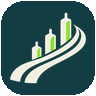
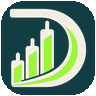
Refresh brand mark and show full batch news

diff --git a/app/components/trader.tsx b/app/components/trader.tsx
@@ -158,13 +158,11 @@ export function Trader({ mode = "live", audienceOnly = false, terminal, uiVarian
   const [query, setQuery] = useState("");
   const [toast, setToast] = useState("");
   const [busy, setBusy] = useState(false);
-  const [breaking, setBreaking] = useState(false);
   const [theme, setTheme] = useState<"light" | "dark">("light");
   const [themeReady, setThemeReady] = useState(false);
   const [clockNow, setClockNow] = useState(Date.now);
   const [menu, setMenu] = useState(false);
   const [drawer, setDrawer] = useState(false);
-  const lastNews = useRef<string | null>(null);
   const inFlight = useRef(false);
   const submitting = useRef(false);
   const readController = useRef<AbortController | null>(null);
@@ -179,7 +177,6 @@ export function Trader({ mode = "live", audienceOnly = false, terminal, uiVarian
   worldRef.current = world;
   const chartSymbol = useRef<string | null>(null);
   const chartLastTime = useRef(0);
-  const newsTimeout = useRef<number | null>(null);
 
   useEffect(() => { if (!audienceOnly) setSessionId(initialSession(mode, terminal, preview)); }, [audienceOnly, mode, preview, terminal]);
   useEffect(() => {
@@ -216,11 +213,6 @@ export function Trader({ mode = "live", audienceOnly = false, terminal, uiVarian
       }
       worldRef.current = nextWorld;
       setWorld(nextWorld);
-      const headline = data.latestNewsId;
-      if (headline && headline !== lastNews.current) {
-        lastNews.current = headline;
-        if (!audienceOnly) { setBreaking(true); if (newsTimeout.current) window.clearTimeout(newsTimeout.current); newsTimeout.current = window.setTimeout(() => setBreaking(false), 30_000); }
-      }
     } catch (err) { if (!controller.signal.aborted) { failures.current += 1; nextSyncAt.current = Date.now() + Math.min(15000, 1000 * 2 ** failures.current); if (failures.current === 1) setToast(err instanceof Error ? err.message : "Reconnecting to the market…"); } }
     finally { clearTimeout(timeout); if (readController.current === controller) { inFlight.current = false; readController.current = null; } }
   }, [sessionId, mode, audienceOnly, terminal, uiVariant, preview]);
@@ -249,7 +241,6 @@ export function Trader({ mode = "live", audienceOnly = false, terminal, uiVarian
   const blocked = busy || !player || player.ended || !world || world.status !== "live" || world.controls.paused || (world.mode === "live" && (player.paused || !player.included));
 
   useEffect(() => { if (toast) { const t = window.setTimeout(() => setToast(""), 3600); return () => clearTimeout(t); } }, [toast]);
-  useEffect(() => () => { if (newsTimeout.current) window.clearTimeout(newsTimeout.current); }, []);
   useEffect(() => {
     document.documentElement.dataset.theme = theme;
     if (themeReady) window.localStorage.setItem("ds-theme", theme);
@@ -293,7 +284,7 @@ export function Trader({ mode = "live", audienceOnly = false, terminal, uiVarian
   if (audienceOnly) return <Audience world={world} uiVariant={uiVariant} preview={preview} theme={theme} onTheme={() => setTheme(current => current === "light" ? "dark" : "light")} />;
   const report = world && player ? performance(world as never, player) : null;
   const isTest = mode === "test";
-  const activeNews = world?.headlines.find(n => n.id === world.latestNewsId);
+  const marketNews = [...(world?.headlines ?? [])].sort((a, b) => a.createdAt - b.createdAt);
   const previewOption = uiVariant ? UI_OPTIONS.find(option => option.slug === uiVariant) : null;
   const orderTicket = stock && <div className="order-card"><div className="order-title"><div><span className="eyebrow">ORDER TICKET · {stock.symbol}</span><h2>Place a trade</h2></div><span className="order-live"><i/> LIVE PRICE</span></div>
     <div className="side-switch">{(["Buy", "Sell", "Short"] as const).map(t => <button key={t} onClick={() => setSide(t)} className={`${side === t ? `active ${t.toLowerCase()}` : ""}`} disabled={t === "Sell" && !ownedQty}>{t}</button>)}</div>
@@ -317,7 +308,10 @@ export function Trader({ mode = "live", audienceOnly = false, terminal, uiVarian
       {isTest && <div className="autonomous-band"><span className="live-dot"/> TEST MARKET · ISOLATED PRACTICE <span>Six minute rounds use the same rules as a live session.</span></div>}
       {world && world.status !== "live" && view === "markets" && <div className="market-state-banner"><span className="state-orb"/>{world.status === "countdown" ? `The market opens in ${Math.max(0, Math.ceil((world.startedAt - clockNow) / 1000))} seconds` : world.status === "closed" ? isTest ? "Practice round complete" : "The batch has ended" : isTest ? "Practice round ready" : "The market is ready"}<span>{world.status === "countdown" ? "The market is starting on every device." : world.status === "closed" ? isTest ? "Start another isolated practice round when you’re ready." : "Review your report to return to the ready state." : isTest ? "Your isolated practice market is ready." : "The host will start the shared batch shortly."}</span>{isTest && (world.status === "closed" || world.status === "ready") && <button type="button" className="outline-button" disabled={busy} onClick={() => void send("sandbox-start")}>Start practice round</button>}</div>}
       {view === "markets" && stock && <>
-        {breaking && activeNews && <div className="breaking-alert" role="status"><div className="breaking-mark">!</div><div><small>{activeNews.type.toUpperCase()} NEWS · {newsScope(activeNews)} · JUST NOW</small><strong>{activeNews.headline}</strong></div><button onClick={() => setBreaking(false)} aria-label="Minimize headline">×</button><span className="breaking-progress"/></div>}
+        <section className="market-news-feed" aria-label="News published this batch">
+          <header><span className="eyebrow">BATCH NEWS</span><span>{marketNews.length} {marketNews.length === 1 ? "headline" : "headlines"}</span></header>
+          <div className="market-news-list">{marketNews.length ? marketNews.map((item, index) => <article key={item.id}><b className="market-news-number">News {index + 1}</b><span className={`news-tag ${item.type}`}>{item.type}</span><span className="market-news-scope">{newsScope(item)}</span><strong>{item.headline}</strong></article>) : <p>No news published in this batch yet.</p>}</div>
+        </section>
         <div className="trading-grid">
           <section className="watch-area">
             <div className="watch-controls"><div className="sector-scroll">{sectors.map(s => <button key={s} className={`filter-chip ${sector === s ? "active" : ""}`} onClick={() => setSector(s)}>{s}</button>)}</div><label className="search-field"><span>⌕</span><input value={query} onChange={e => setQuery(e.target.value)} placeholder="Search companies" aria-label="Search stocks"/><kbd>⌘ K</kbd></label></div>
@@ -334,7 +328,6 @@ export function Trader({ mode = "live", audienceOnly = false, terminal, uiVarian
                 </button>;
             })}</div>
             {!shownStocks.length && <div className="empty-state">No companies match that search.</div>}
-            {activeNews && <div className="latest-brief"><span className="brief-icon">◉</span><span><small>LATEST BULLETIN · {newsScope(activeNews)}</small><b>{activeNews.headline}</b></span><button onClick={() => setView("news")}>News desk →</button></div>}
           </section>
 
           <aside className="trade-column">
@@ -363,7 +356,7 @@ export function Trader({ mode = "live", audienceOnly = false, terminal, uiVarian
         <div className="page-tabs"><button className={menu ? "" : "active"} onClick={() => setMenu(false)}>Holdings <span>{invested.length + shorts.length}</span></button><button className={menu ? "active" : ""} onClick={() => setMenu(true)}>History <span>{player?.history.length ?? 0}</span></button></div>
         {!menu ? <div className="table-card">{invested.length + shorts.length === 0 ? <div className="empty-state roomy"><span>▧</span><b>No holdings yet</b><p>Choose a company from Markets to place your first order.</p><button className="outline-button" onClick={() => setView("markets")}>Browse markets</button></div> : <table><thead><tr><th>COMPANY</th><th>POSITION</th><th>AVG. PRICE</th><th>LAST PRICE</th><th>MARKET VALUE</th><th>UNREALISED P&amp;L</th><th>ACTION</th></tr></thead><tbody>{[...invested.map(([symbol, p]) => ({ symbol, ...p, short: false })), ...shorts.map(([symbol, p]) => ({ symbol, ...p, short: true }))].map(p => {const s = world?.stocks.find(x => x.symbol === p.symbol); const mark = s?.price ?? 0; const pl = (p.short ? p.avg - mark : mark - p.avg) * p.qty;return <tr key={p.symbol} onClick={() => {setSelected(p.symbol);setView("markets");}}><td><span className="table-company"><Logo stock={s!} compact/><span><b>{s?.name}</b><small>{p.symbol} · {s?.sector}</small></span></span></td><td><span className={`position-pill ${p.short ? "short" : "long"}`}>{p.short ? "Short" : "Long"} · {p.qty}</span></td><td>{money(p.avg)}</td><td>{money(mark)}</td><td>{money(mark * p.qty, 0)}</td><td className={pl >= 0 ? "positive" : "negative"}>{pl >= 0 ? "+" : ""}{money(pl, 0)}</td><td><button className={`position-close ${p.short ? "cover" : "sell"}`} disabled={blocked} onClick={e => { e.stopPropagation(); void send("trade", { side: p.short ? "Buy" : "Sell", symbol: p.symbol, quantity: p.qty }); }}>{busy ? "Submitting…" : p.short ? "Cover short" : "Sell holding"}</button></td></tr>;})}</tbody></table>}</div> : <div className="table-card">{!player?.history.length ? <div className="empty-state roomy"><span>↻</span><b>No trades yet</b><p>Every order and short-cover is recorded here.</p></div> : <table><thead><tr><th>TIME</th><th>COMPANY</th><th>ORDER</th><th>QUANTITY</th><th>EXECUTION</th><th>REALIZED P&amp;L</th></tr></thead><tbody>{player.history.map(t => {const s = world?.stocks.find(x => x.symbol === t.symbol); const closing = t.side === "Sell" || t.side === "Auto-sell" || t.side === "Auto-cover" || (t.side === "Buy" && (t.coveredQty ?? (t.note?.startsWith("Covered") ? 1 : 0)) > 0);return <tr key={t.id}><td>{new Date(t.time).toLocaleTimeString("en-IN", { hour: "2-digit", minute: "2-digit", second: "2-digit" })}</td><td><span className="table-company"><Logo stock={s!} compact/><span><b>{s?.name ?? t.symbol}</b><small>{t.symbol}</small></span></span></td><td><span className={`position-pill ${t.side === "Short" ? "short" : closing ? "sell" : "long"}`}>{t.side === "Auto-sell" ? "Auto-sell · automatic close" : t.side === "Auto-cover" ? "Auto-cover · automatic close" : t.side === "Buy" && (t.coveredQty ?? 0) ? t.coveredQty === t.qty ? "Cover" : "Cover + Buy" : t.side}</span></td><td>{t.qty}</td><td>{money(t.price)}</td><td className={t.realized >= 0 ? "positive" : "negative"}>{closing ? `${t.realized > 0 ? "+" : ""}${money(t.realized, 0)}` : "—"}</td></tr>;})}</tbody></table>}</div>}</section>}
 
-      {view === "news" && <section className="wide-page"><div className="section-heading"><div><div className="eyebrow">DALAA<span>L</span> STREET / NEWS</div><h1>Market news<span className="heading-period">.</span></h1><p>Company and sector bulletins shape the fictional market through the same price model as trading.</p></div></div><div className="news-list">{world?.headlines.map((n, i) => <article className={`news-item ${i === 0 ? "newest" : ""}`} key={n.id}><div className="news-meta"><span className={`news-tag ${n.type}`}>{n.type}</span><span>{newsScope(n)}</span><time>{new Date(n.createdAt).toLocaleTimeString("en-IN", { hour: "2-digit", minute: "2-digit" })}</time></div><h2>{n.headline}</h2></article>) ?? null}{!world?.headlines.length && <div className="empty-state">No bulletins yet. Headlines triggered during this batch will appear here.</div>}</div></section>}
+      {view === "news" && <section className="wide-page"><div className="section-heading"><div><div className="eyebrow">DALAA<span>L</span> STREET / NEWS</div><h1>Market news<span className="heading-period">.</span></h1><p>Company and sector bulletins shape the fictional market through the same price model as trading.</p></div></div><div className="news-list">{marketNews.map((n, i) => <article className={`news-item ${i === 0 ? "newest" : ""}`} key={n.id}><div className="news-meta"><b className="market-news-number">News {i + 1}</b><span className={`news-tag ${n.type}`}>{n.type}</span><span>{newsScope(n)}</span><time>{new Date(n.createdAt).toLocaleTimeString("en-IN", { hour: "2-digit", minute: "2-digit" })}</time></div><h2>{n.headline}</h2></article>)}{!marketNews.length && <div className="empty-state">No bulletins yet. Headlines triggered during this batch will appear here.</div>}</div></section>}
 
       {view === "report" && report && <section className="results-view"><div className="results-heading"><span className="eyebrow">SESSION COMPLETE · BATCH {world?.batch}</span><h1>That’s a wrap<span>.</span></h1><p>Here’s what your decisions added up to. This is a fictional learning simulation, not investment advice.</p></div><div className="results-value"><small>FINAL PORTFOLIO VALUE</small><strong>{money(report.value, 0)}</strong><span className={report.pnl >= 0 ? "positive" : "negative"}>{report.pnl >= 0 ? "+" : ""}{money(report.pnl, 0)} · {report.returnPct >= 0 ? "+" : ""}{report.returnPct.toFixed(2)}%</span></div><div className="portfolio-summary report-metrics"><Metric label="AVAILABLE CASH" value={money(report.cash, 0)}/><Metric label="ORDERS PLACED" value={String(report.tradeCount)}/><Metric label="WIN / LOSS CLOSES" value={`${report.winners} / ${report.losers}`}/><Metric label="DIVERSIFICATION" value={`${report.sectors} sectors`}/></div>
         <div className="report-trade-pair">{([["BEST CLOSED TRADE", report.bestTrade], ["TOUGHEST CLOSED TRADE", report.worstTrade]] as const).map(([label, trade]) => <article className={`report-trade-card${trade ? trade.realized >= 0 ? " positive-result" : " negative-result" : " empty-result"}`} key={label}><span className="eyebrow">{label}</span>{trade ? <><div className="report-trade-title"><b>{trade.symbol}</b><span>{trade.side} · {trade.qty} shares</span></div><strong className={trade.realized >= 0 ? "positive" : "negative"}>{trade.realized > 0 ? "+" : ""}{money(trade.realized, 0)} <small>realised</small></strong><small className="report-trade-meta">{money(trade.price)} per share · {new Date(trade.time).toLocaleTimeString("en-IN", { hour: "2-digit", minute: "2-digit", second: "2-digit" })}</small></> : <p>No closed trades yet. Best and toughest realized trades will appear here.</p>}</article>)}</div>
@@ -373,7 +366,7 @@ export function Trader({ mode = "live", audienceOnly = false, terminal, uiVarian
     </main>
     {!audienceOnly && world?.status === "live" && player && !player.ended && <button className="end-session" onClick={() => { if (window.confirm("End your trading session now? Open long and short positions will close at the current simulated price.")) void send("end"); }}>Finish session <span>↗</span></button>}
     {toast && <div className="toast-message" role="status"><span>✓</span>{toast}<button onClick={() => setToast("")}>×</button></div>}
-    {drawer && <div className="drawer-backdrop" onClick={() => setDrawer(false)}><section className="news-drawer" onClick={e => e.stopPropagation()}><div className="drawer-head"><div><span className="eyebrow">MARKET BULLETINS</span><h2>News desk</h2></div><button onClick={() => setDrawer(false)}>×</button></div>{world?.headlines.slice(0, 12).map(n => <article key={n.id}><small className={`news-tag ${n.type}`}>{n.type}</small><b>{n.headline}</b><span>{newsScope(n)}</span></article>)}</section></div>}
+      {drawer && <div className="drawer-backdrop" onClick={() => setDrawer(false)}><section className="news-drawer" onClick={e => e.stopPropagation()}><div className="drawer-head"><div><span className="eyebrow">MARKET BULLETINS</span><h2>News desk</h2></div><button onClick={() => setDrawer(false)}>×</button></div>{marketNews.map((n, index) => <article key={n.id}><small className="market-news-number">News {index + 1}</small><small className={`news-tag ${n.type}`}>{n.type}</small><b>{n.headline}</b><span>{newsScope(n)}</span></article>)}{!marketNews.length && <div className="empty-state">No news published in this batch yet.</div>}</section></div>}
   </div>;
 }
 
@@ -381,10 +374,7 @@ function Metric({ label, value, note }: { label: string; value: string; note?: s
 
 function Audience({ world, uiVariant, preview, theme, onTheme }: { world: PublicWorld | null; uiVariant?: UiVariant; preview?: boolean; theme: "light" | "dark"; onTheme: () => void }) {
   const [fullscreen, setFullscreen] = useState(false);
-  const newsItems = world ? (world.latestNewsIds?.length ? world.latestNewsIds : world.latestNewsId ? [world.latestNewsId] : [])
-    .map(id => world.headlines.find(news => news.id === id))
-    .filter((news): news is PublicWorld["headlines"][number] => Boolean(news)) : [];
-  const latestNews = (newsItems.length ? newsItems : [...(world?.headlines ?? [])].sort((a, b) => b.createdAt - a.createdAt)).slice(0, 3);
+  const allNews = [...(world?.headlines ?? [])].sort((a, b) => a.createdAt - b.createdAt);
   const stocks = world?.stocks ?? [];
   const returnPct = world?.indexChange ?? 0;
   const isClosed = world?.status === "closed";
@@ -400,7 +390,7 @@ function Audience({ world, uiVariant, preview, theme, onTheme }: { world: Public
       <button className="theme-button wall-theme-button" onClick={onTheme} aria-pressed={theme === "dark"} aria-label={`Switch to ${theme === "light" ? "dark" : "light"} mode`} title={`Switch to ${theme === "light" ? "dark" : "light"} mode`}>{theme === "light" ? <svg className="wall-theme-icon" viewBox="0 0 24 24" aria-hidden="true"><path d="M20.5 15.2A8.5 8.5 0 0 1 8.8 3.5 8.5 8.5 0 1 0 20.5 15.2Z"/></svg> : <svg className="wall-theme-icon" viewBox="0 0 24 24" aria-hidden="true"><circle cx="12" cy="12" r="4"/><path d="M12 2v2m0 16v2M4.93 4.93l1.42 1.42m11.3 11.3 1.42 1.42M2 12h2m16 0h2M4.93 19.07l1.42-1.42m11.3-11.3 1.42-1.42"/></svg>}</button>
       <button className="wall-fullscreen" onClick={() => document.fullscreenElement ? void document.exitFullscreen() : void document.documentElement.requestFullscreen()}>{fullscreen ? "Exit full screen" : "Full screen"} ↗</button>
     </header>
-    <section className="wall-news" aria-label="Latest news"><header className="wall-news-heading"><span className="wall-news-label">LATEST NEWS</span><span>{latestNews.length ? `${latestNews.length} ${latestNews.length === 1 ? "headline" : "headlines"}` : "No headlines yet"}</span></header><div className="wall-news-headlines">{latestNews.length ? latestNews.map(item => <article key={item.id}><div><span className={`news-tag ${item.type}`}>{item.type}</span><span>{newsScope(item)}</span><time>{new Date(item.createdAt).toLocaleTimeString("en-IN", { hour: "2-digit", minute: "2-digit" })}</time></div><strong>{item.headline}</strong></article>) : <article className="wall-news-empty">News released during the batch will appear here.</article>}</div></section>
+    <section className="wall-news" aria-label="All news published this batch"><header className="wall-news-heading"><span className="wall-news-label">BATCH NEWS</span><span>{allNews.length ? `${allNews.length} ${allNews.length === 1 ? "headline" : "headlines"}` : "No headlines yet"}</span></header><div className="wall-news-headlines">{allNews.length ? allNews.map((item, index) => <article key={item.id}><div><b className="wall-news-number">News {index + 1}</b><span className={`news-tag ${item.type}`}>{item.type}</span><span>{newsScope(item)}</span><time>{new Date(item.createdAt).toLocaleTimeString("en-IN", { hour: "2-digit", minute: "2-digit" })}</time></div><strong>{item.headline}</strong></article>) : <article className="wall-news-empty">News released during the batch will appear here.</article>}</div></section>
     <section className="wall-market-section"><header className="wall-section-heading"><div><span className="eyebrow">MARKET BOARD</span><h1>All stocks<span>.</span></h1></div></header>
       <section className="wall-grid" aria-label="All listed stocks">{stocks.map(stock => <article className="wall-stock" key={stock.symbol}><div className="wall-stock-top"><Logo stock={stock} compact/><span><b>{stock.symbol}</b><small>{stock.name}</small></span></div><div className="wall-price"><strong>{money(stock.price, stock.price < 100 ? 2 : 0)}</strong><span className={changePct(stock) >= 0 ? "positive" : "negative"}>{signReturn(changePct(stock))}</span></div><MiniChart stock={stock}/></article>)}</section>
     </section>

diff --git a/app/ui-news.css b/app/ui-news.css
@@ -20,12 +20,30 @@
 .terminal[class*="ui-"] .news-tag.minor,.terminal[class*="ui-"] .news-tag.sector {color:#655522;background:#f1e9c9;}
 .terminal[class*="ui-"] .news-tag.company,.terminal[class*="ui-"] .news-tag.stock {color:#744759;background:#f1e0e9;}
 .terminal[class*="ui-"] .news-tag.other {color:var(--muted);background:var(--secondary);}
+.market-news-number,.wall-news-number {display:inline-flex;align-items:center;width:max-content;white-space:nowrap;color:var(--accent);font:800 8px/1 var(--mono);letter-spacing:.035em;text-transform:uppercase;}
+.terminal .market-news-feed {display:grid;gap:8px;margin:0 0 14px;padding:10px 12px;border:1px solid var(--line);border-radius:14px;background:var(--card);color:var(--ink);box-shadow:var(--shadow);}
+.terminal .market-news-feed>header {display:flex;align-items:center;justify-content:space-between;gap:10px;}
+.terminal .market-news-feed>header>span:last-child {color:var(--muted);font-size:9px;}
+.terminal .market-news-list {display:grid;grid-template-columns:repeat(auto-fit,minmax(min(100%,250px),1fr));gap:7px;}
+.terminal .market-news-list>article {display:grid;grid-template-columns:auto auto minmax(0,1fr);align-items:center;gap:6px;min-width:0;padding:8px 9px;border:1px solid var(--line);border-radius:10px;background:var(--secondary);}
+.terminal .market-news-list>article>.news-tag {font-size:7px;padding:4px 6px;}
+.terminal .market-news-scope {overflow:hidden;color:var(--muted);font-size:8px;text-overflow:ellipsis;white-space:nowrap;}
+.terminal .market-news-list>article>strong {grid-column:1/-1;color:var(--ink);font-size:10px;font-weight:700;line-height:1.4;}
+.terminal .market-news-list>p {grid-column:1/-1;margin:0;padding:7px;color:var(--muted);font-size:9px;}
+.terminal .news-meta .market-news-number {padding:5px 6px;border-radius:999px;background:var(--accent-soft);}
 .terminal.ui-orbit .news-item {border-radius:23px 15px 21px 15px;}
+.terminal.ui-orbit .market-news-list>article {border-radius:15px 9px 15px 9px;}
 .terminal.ui-arcade .news-item {border-radius:22px;background:linear-gradient(145deg,#f8f2e9,#eee7dc);box-shadow:7px 8px 15px #a79a8735,-4px -4px 11px #fffaf4a6;}
+.terminal.ui-arcade .market-news-list>article {border:2px solid #493b55;border-radius:12px;background:#fff9e8;box-shadow:2px 3px 0 #493b5522;}
 .terminal.ui-gallery .news-item {border-radius:26px 15px 24px 16px;background:linear-gradient(145deg,#fff,#f4f3fa);}
+.terminal.ui-gallery .market-news-list>article {border-radius:17px 10px 17px 10px;background:linear-gradient(145deg,#fff,#f4f3fa);}
 .terminal.ui-broadcast .news-item {border-radius:8px;box-shadow:none;}
+.terminal.ui-broadcast .market-news-list>article {border-radius:5px;box-shadow:none;}
 .terminal.ui-conservatory .news-item {border-radius:18px 5px 18px 5px;}
+.terminal.ui-conservatory .market-news-list>article {border-radius:12px 4px 12px 4px;}
 .terminal.ui-tangram .news-item {border-radius:16px 5px 16px 5px;}
+.terminal.ui-tangram .market-news-list>article {border-radius:12px 4px 12px 4px;}
+:root[data-theme="dark"] .market-news-number,:root[data-theme="dark"] .wall-news-number {color:var(--accent);}
 :root[data-theme="dark"] .terminal[class*="ui-"] .news-item {background:var(--card);border-color:var(--line);box-shadow:0 8px 20px #0003;}
 :root[data-theme="dark"] .terminal[class*="ui-"] .news-tag.major,:root[data-theme="dark"] .terminal[class*="ui-"] .news-tag.economy {color:#b5e8ca;background:#244338;}
 :root[data-theme="dark"] .terminal[class*="ui-"] .news-tag.minor,:root[data-theme="dark"] .terminal[class*="ui-"] .news-tag.sector {color:#f1d99b;background:#453b23;}
@@ -33,5 +51,8 @@
 @media(max-width:650px) {
  .terminal[class*="ui-"] .news-list {grid-template-columns:minmax(0,1fr);}
  .terminal[class*="ui-"] .news-item {min-height:0;padding:13px 13px 13px 17px;}
+ .terminal .market-news-feed {padding:8px;}
+ .terminal .market-news-list {grid-template-columns:minmax(0,1fr);}
+ .terminal .market-news-list>article {grid-template-columns:auto auto minmax(0,1fr);}
 }
 

diff --git a/app/ui-audience.css b/app/ui-audience.css
@@ -80,8 +80,8 @@
 .audience-wall[class*="ui-"] .wall-news-label {color:var(--wall-accent);font-size:9px;font-weight:900;letter-spacing:.14em;}
 .audience-wall[class*="ui-"] .wall-news-heading>span:last-child {color:var(--wall-muted);font-size:9px;}
 .audience-wall[class*="ui-"] .wall-news-headlines {
-  display:grid;grid-template-columns:repeat(auto-fit,minmax(min(100%,205px),1fr));gap:8px;
-  max-height:none;min-height:0;overflow:auto;
+  display:grid;grid-template-columns:repeat(auto-fit,minmax(min(100%,250px),1fr));gap:8px;
+  max-height:none;min-height:0;overflow:visible;
 }
 .audience-wall[class*="ui-"] .wall-news-headlines>article {
   display:grid;align-content:start;gap:7px;min-width:0;padding:10px 11px;
@@ -90,8 +90,9 @@
 }
 .audience-wall[class*="ui-"] .wall-news-headlines>article>div {display:flex;align-items:center;gap:6px;min-width:0;color:var(--wall-muted);font-size:8px;}
 .audience-wall[class*="ui-"] .wall-news-headlines>article>div>span:nth-child(2) {overflow:hidden;text-overflow:ellipsis;white-space:nowrap;}
+.audience-wall[class*="ui-"] .wall-news-number {color:var(--wall-accent);font-size:8px;}
 .audience-wall[class*="ui-"] .wall-news-headlines time {margin-left:auto;white-space:nowrap;font:8px var(--mono);color:var(--wall-muted);}
-.audience-wall[class*="ui-"] .wall-news-headlines>article>strong {display:-webkit-box;overflow:hidden;-webkit-box-orient:vertical;-webkit-line-clamp:2;color:var(--wall-ink);font-size:11px;line-height:1.4;}
+.audience-wall[class*="ui-"] .wall-news-headlines>article>strong {color:var(--wall-ink);font-size:11px;line-height:1.4;}
 .audience-wall[class*="ui-"] .wall-market-section {display:flex;flex:1 1 auto;flex-direction:column;gap:9px;min-width:0;min-height:270px;}
 .audience-wall[class*="ui-"] .wall-section-heading {display:flex;align-items:baseline;justify-content:space-between;gap:12px;margin:0 2px;padding:0;}
 .audience-wall[class*="ui-"] .wall-section-heading .eyebrow {color:var(--wall-muted);font-size:9px;letter-spacing:.14em;}

diff --git a/src/components/trader-parts.tsx b/src/components/trader-parts.tsx
@@ -15,7 +15,7 @@ const brandedSymbols = new Set([
 
 export function DalaalMark({ className = "" }: { className?: string }) {
   return <span className={`dalaal-mark ${className}`} aria-hidden="true">
-    <img src="/brand/dalaal-street-mark-v2.png" alt="" draggable={false}/>
+    <img src="/brand/dalaal-street-mark-v3.png" alt="" draggable={false}/>
   </span>;
 }
 
